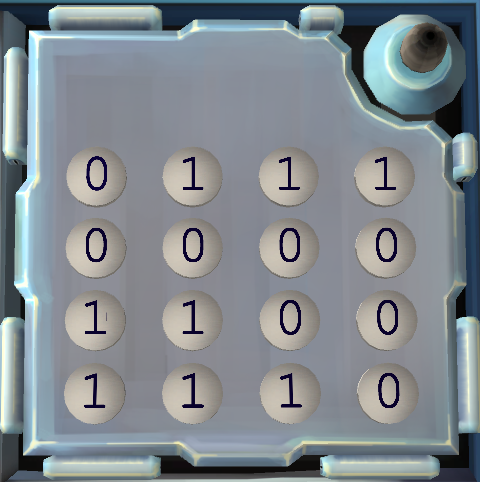
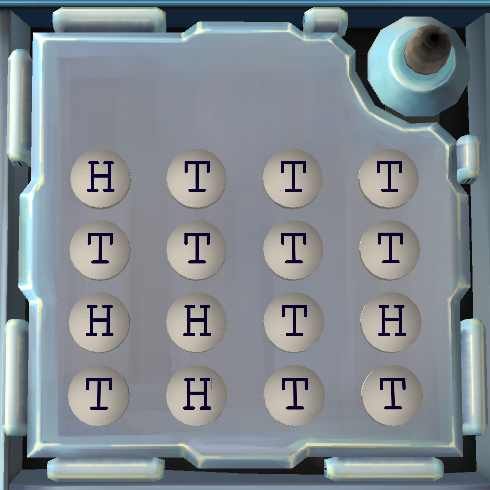
Heads/tails display as H/T not 1/0

diff --git a/Assets/sixteenCoins.cs b/Assets/sixteenCoins.cs
@@ -18,7 +18,7 @@ public class sixteenCoins : MonoBehaviour
 
 	private static int _moduleIdCounter = 1;
 	private int _moduleId = 0;
-	private bool[] coinWasInitiallyOne = new bool[16];
+	private bool[] wasInitiallyHeads = new bool[16];
 	private int indexOfDesiredCoin;
 
 
@@ -41,15 +41,15 @@ public class sixteenCoins : MonoBehaviour
 
 	void RandomizeAndSetCoinAtIndex(int index)
 	{
-		bool willBeAOne = Random.Range(0, 2) == 0;  // 50%
-		coinWasInitiallyOne[index] = willBeAOne;
-		if (willBeAOne)
+		bool willBeHeads = Random.Range(0, 2) == 0;  // 50%
+		wasInitiallyHeads[index] = willBeHeads;
+		if (willBeHeads)
 		{
-			AssignStringToCoinAtIndex(index, "1");
+			AssignStringToCoinAtIndex(index, "H");
 		}
 		else
 		{
-			AssignStringToCoinAtIndex(index, "0");
+			AssignStringToCoinAtIndex(index, "T");
 		}
 	}
 
@@ -94,7 +94,7 @@ public class sixteenCoins : MonoBehaviour
 
 	void FlipCoinAtIndex (int index)
 	{
-		coinTextMeshes[index].text = coinTextMeshes[index].text == "0" ? "1" : "0";
+		coinTextMeshes[index].text = coinTextMeshes[index].text == "T" ? "H" : "T";
 	}
 
 }
